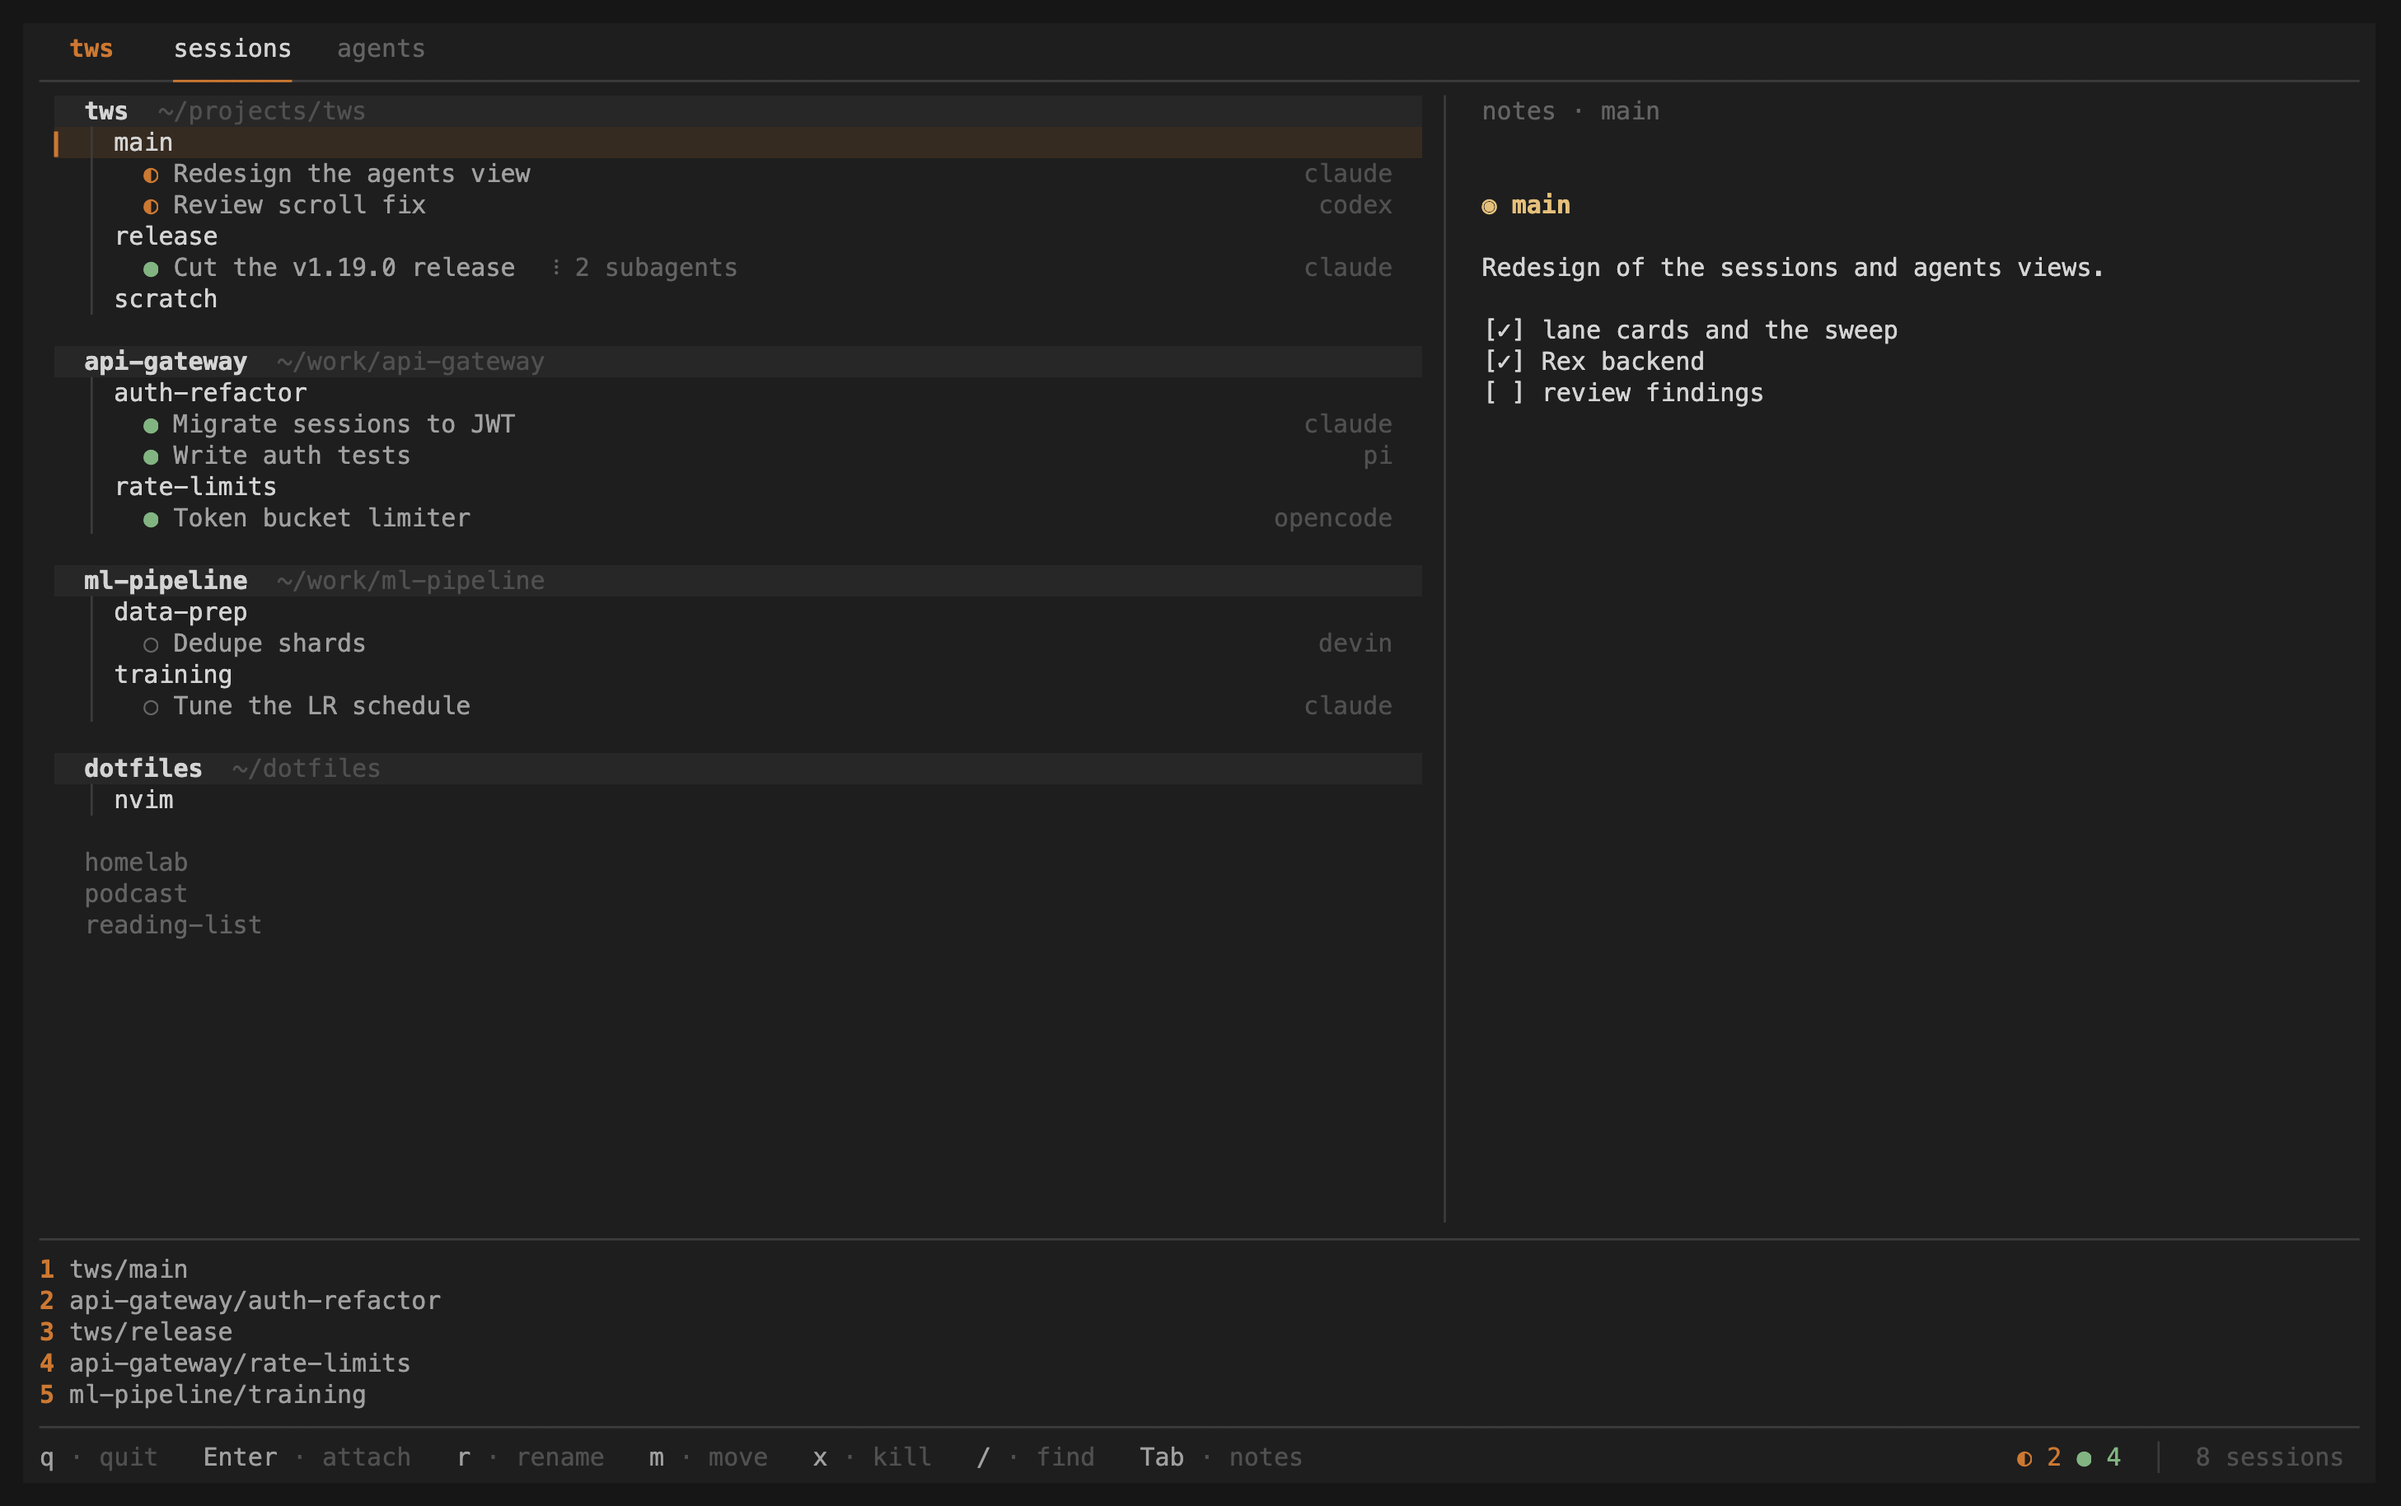
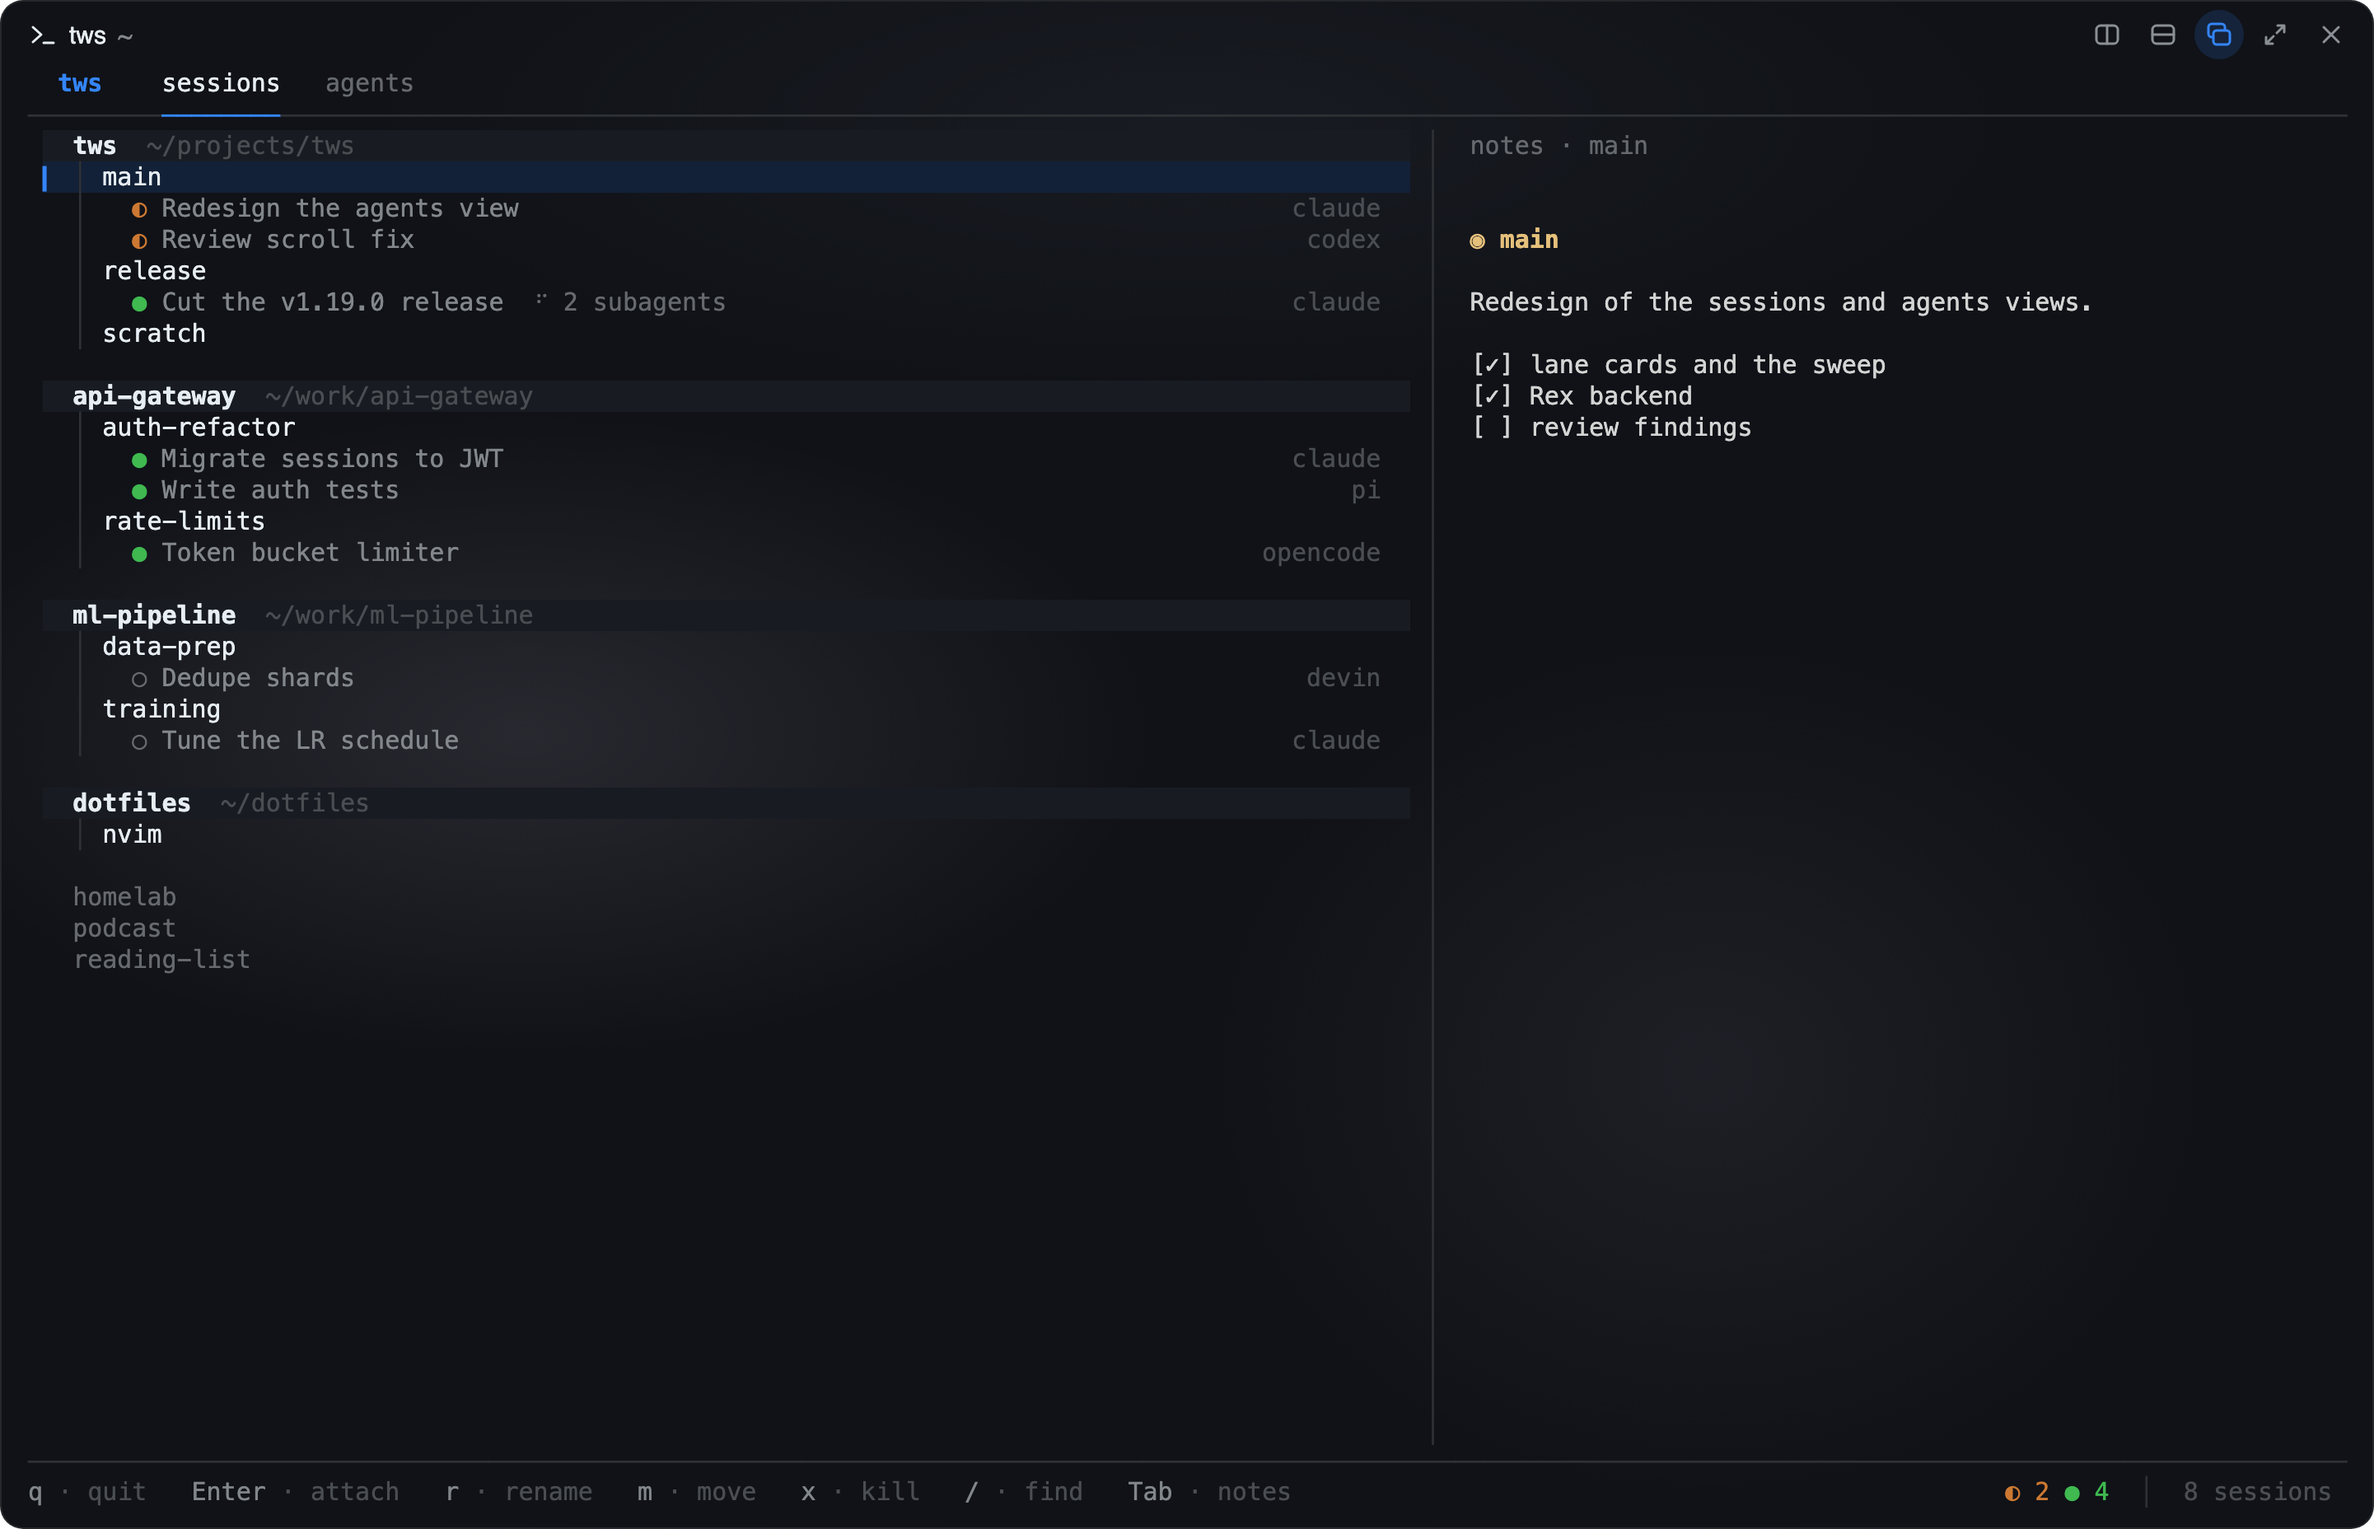
docs: show the README images as the Rex popup with merino-dark and glass

diff --git a/README.md b/README.md
@@ -3,7 +3,7 @@
 
 **terminal workspace manager** — organize your terminal sessions into threads. Works with [Rex](https://www.superlogical.com/rex/) and [tmux](https://github.com/tmux/tmux).
 
-<img width="960" height="602" alt="tws-demo" src="assets/demo.gif" />
+<img width="960" height="618" alt="tws-demo" src="assets/demo.gif" />
 
 tws is a terminal UI that adds a persistent organizational layer on top of your terminal. It runs on one of two backends: [Rex](https://www.superlogical.com/rex/) (the default) or [tmux](https://github.com/tmux/tmux). Terminal sessions are flat and ephemeral; tws groups them into **threads** you control, and launches and opens them for you.
 
@@ -12,7 +12,7 @@ tws is a terminal UI that adds a persistent organizational layer on top of your 
 
 Threads are saved to `~/.config/tws/`. Sessions are real Rex windows or tmux sessions that tws finds at runtime. With Rex, tws stays open in its own tab, or opens as a popup with **Cmd+S**. With tmux, detach from a session to go back to tws. See [Backends](#backends).
 
-<img width="2914" height="1828" alt="tws-welcome" src="assets/welcome.png" />
+<img width="2882" height="1856" alt="tws-welcome" src="assets/welcome.png" />
 
 ## Features
 
@@ -20,7 +20,7 @@ Threads are saved to `~/.config/tws/`. Sessions are real Rex windows or tmux ses
 
 The main view. The thread/session tree on the left, a notes panel on the right. Threads expand to show their sessions, and each running session reveals any AI coding agents detected inside it. Press `Enter` on a thread to spawn a new session, or on a session to attach.
 
-<img width="2914" height="1828" alt="tws-sessions" src="assets/sessions-view.png" />
+<img width="2882" height="1856" alt="tws-sessions" src="assets/sessions-view.png" />
 
 ### Thread working directories
 
@@ -45,7 +45,7 @@ is running inside tmux).
 
 Toggle with `v`. A flat view of every AI coding agent (Claude Code, Codex, Pi, Devin CLI, OpenCode) running across all your sessions, regardless of which thread owns them. Each agent is a card with its status and harness, in three lanes: needs you, working, and quiet. A card that starts to need you gets a short sweep of light. Press `r` to rename an agent. Pin frequently-used agents to numbered slots — `p` to pin, `P` to set a slot, `0`–`9` to jump to a pinned agent from anywhere.
 
-<img width="2914" height="1828" alt="tws-agents" src="assets/agents-view.png" />
+<img width="2882" height="1856" alt="tws-agents" src="assets/agents-view.png" />
 
 ### Session fork (experimental)
 
